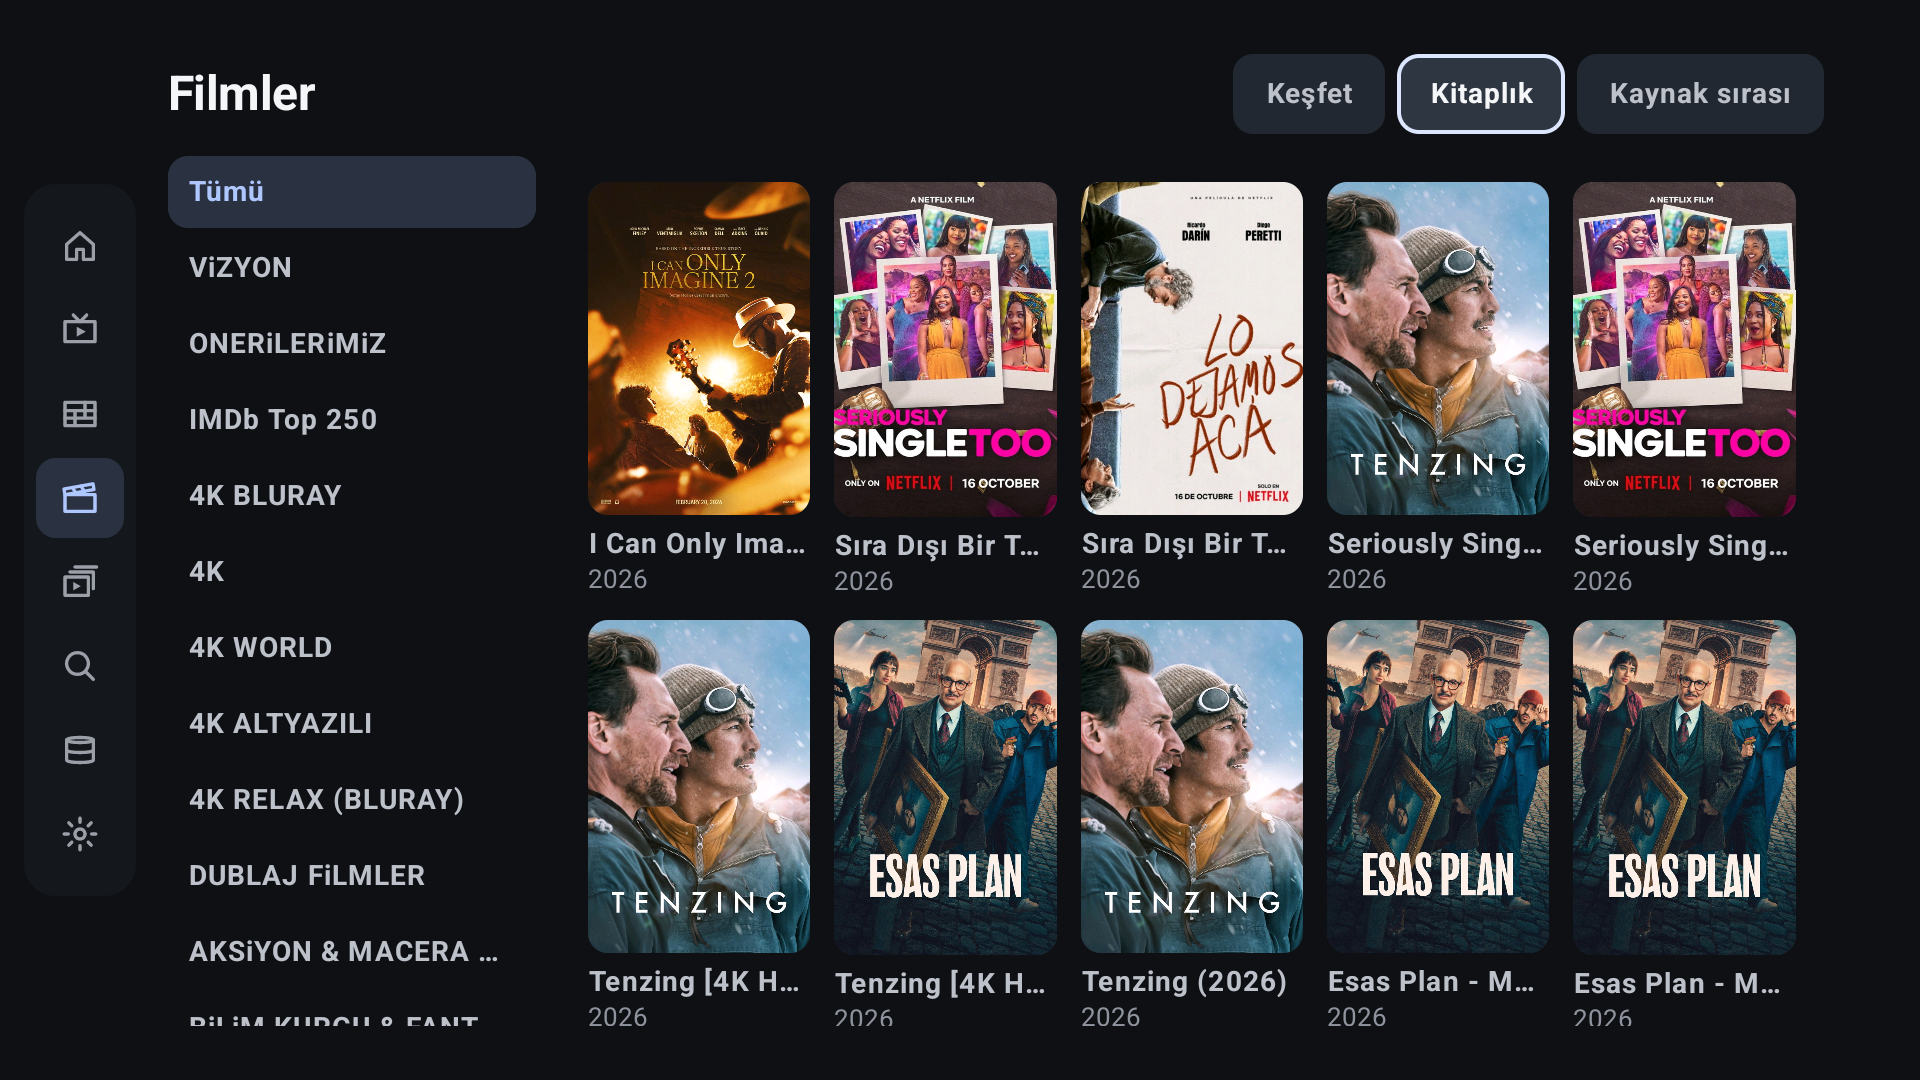
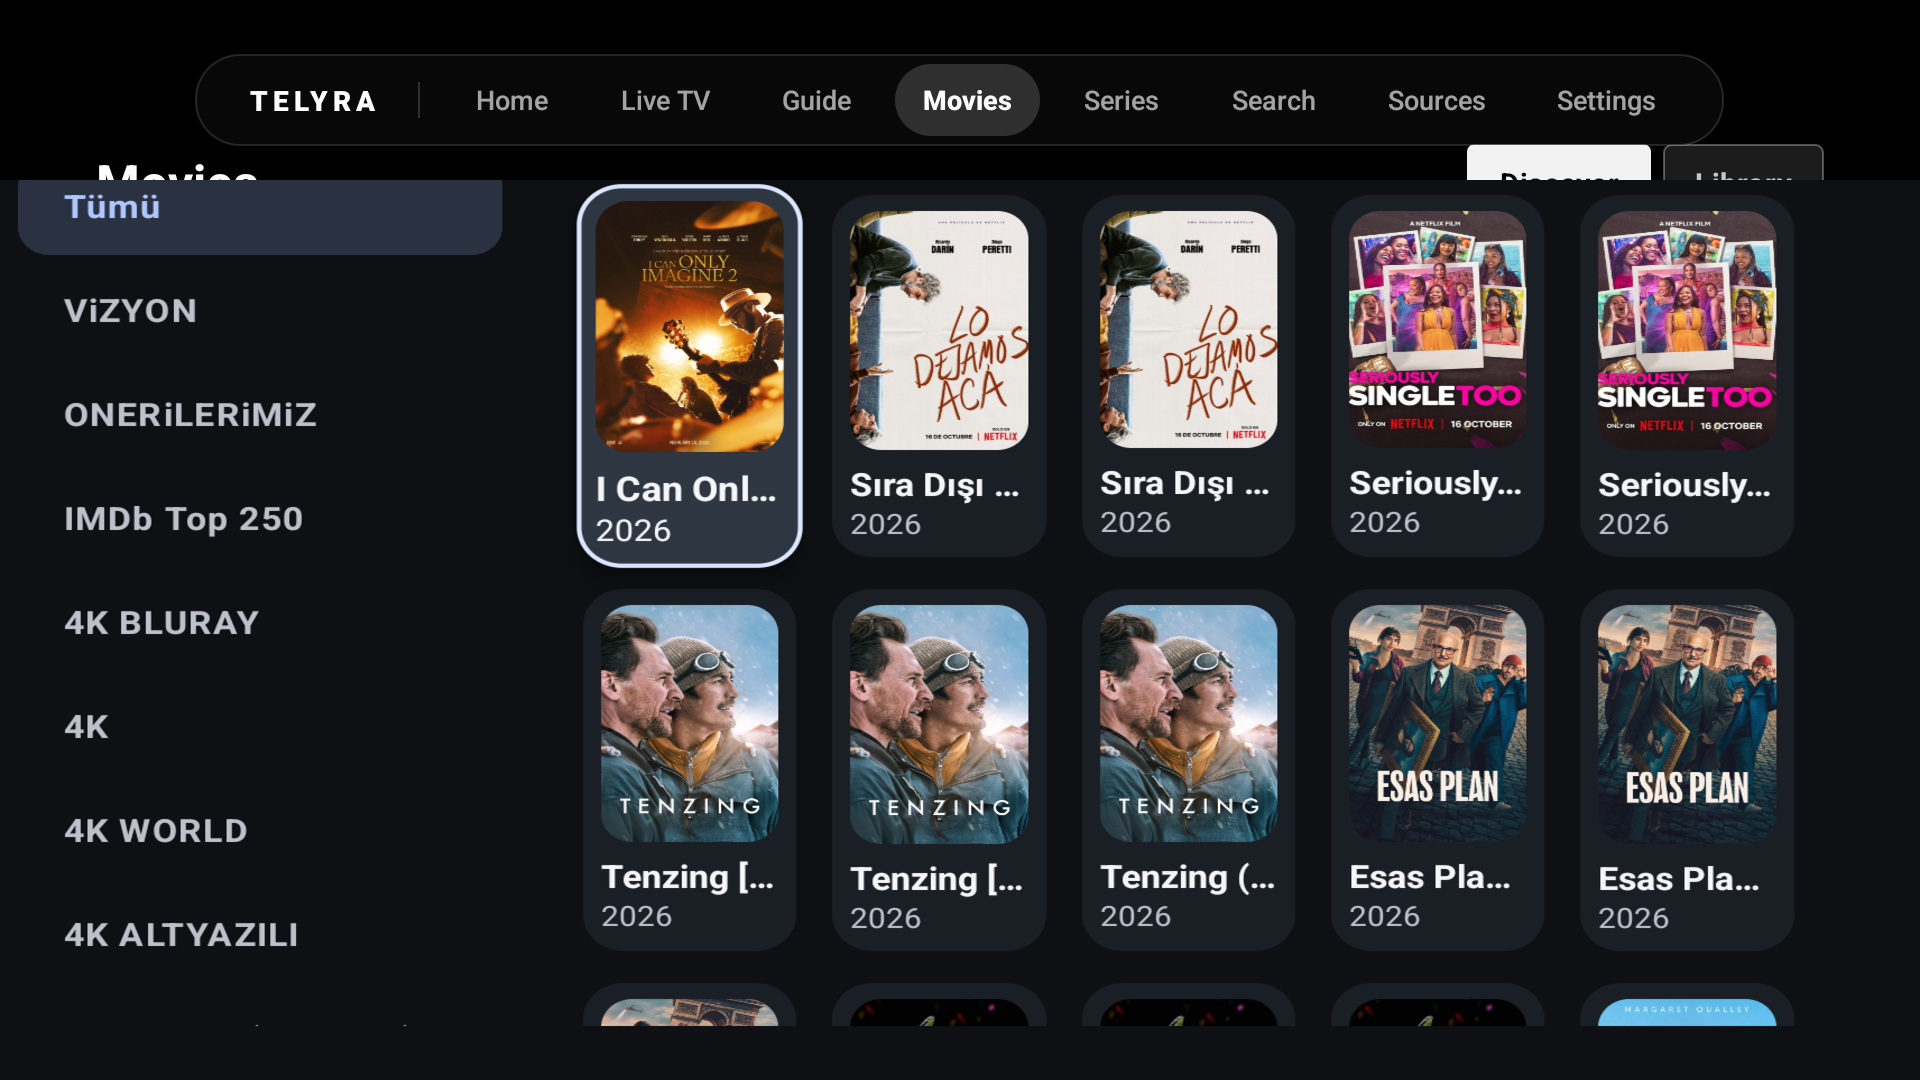
fix(telyra): replace legacy sidebar screenshots with authentic Apple TV TopBar screenshots and add Home tab

diff --git a/src/telyra/components/TvMockupShowcase.tsx b/src/telyra/components/TvMockupShowcase.tsx
@@ -7,16 +7,17 @@ interface MockupProps {
 }
 
 type DeviceMode = 'tv' | 'mobile'
-type TvTab = 'movies' | 'detail' | 'hud' | 'live' | 'guide' | 'sources'
+type TvTab = 'home' | 'live' | 'guide' | 'movies' | 'detail' | 'hud' | 'sources'
 type MobileTab = 'player' | 'stats' | 'live' | 'onboarding'
 type HudMode = 'off' | 'compact' | 'detailed'
 
 const PRELOAD_IMAGES: string[] = [
+  '/telyra/screenshots/tv-home.webp',
+  '/telyra/screenshots/tv-live.webp',
+  '/telyra/screenshots/tv-guide.webp',
   '/telyra/screenshots/tv-movies.webp',
   '/telyra/screenshots/tv-detail.webp',
   '/telyra/screenshots/tv-hud-developer.webp',
-  '/telyra/screenshots/tv-live.webp',
-  '/telyra/screenshots/tv-guide.webp',
   '/telyra/screenshots/tv-sources.webp',
   '/telyra/screenshots/phone-player.webp',
   '/telyra/screenshots/phone-hud-detailed.webp',
@@ -24,12 +25,12 @@ const PRELOAD_IMAGES: string[] = [
   '/telyra/screenshots/phone-home-onboarding.webp',
 ]
 
-const TV_TABS_ORDER: TvTab[] = ['movies', 'detail', 'hud', 'live', 'guide', 'sources']
+const TV_TABS_ORDER: TvTab[] = ['home', 'live', 'guide', 'movies', 'detail', 'hud', 'sources']
 
 export function TvMockupShowcase({ lang }: MockupProps) {
   const content = TELYRA_CONTENT[lang].mockup
   const [device, setDevice] = useState<DeviceMode>('tv')
-  const [activeTvTab, setActiveTvTab] = useState<TvTab>('movies')
+  const [activeTvTab, setActiveTvTab] = useState<TvTab>('home')
   const [activeMobileTab, setActiveMobileTab] = useState<MobileTab>('player')
   const [channelIndex, setChannelIndex] = useState(0)
   const [hudMode, setHudMode] = useState<HudMode>('compact')
@@ -44,11 +45,32 @@ export function TvMockupShowcase({ lang }: MockupProps) {
     TvTab,
     { label: string; src: string; fallbackSrc: string; badge: string; icon: string }
   > = {
+    home: {
+      label: content.tvTabs.home,
+      src: '/telyra/screenshots/tv-home.webp',
+      fallbackSrc: '/telyra/screenshots/tv-home.png',
+      badge: 'NowSeen 10-Foot',
+      icon: '🏠',
+    },
+    live: {
+      label: content.tvTabs.live,
+      src: '/telyra/screenshots/tv-live.webp',
+      fallbackSrc: '/telyra/screenshots/tv-live.png',
+      badge: '1080i50 0ms',
+      icon: '📺',
+    },
+    guide: {
+      label: content.tvTabs.guide,
+      src: '/telyra/screenshots/tv-guide.webp',
+      fallbackSrc: '/telyra/screenshots/tv-guide.png',
+      badge: 'XMLTV EPG',
+      icon: '📅',
+    },
     movies: {
       label: content.tvTabs.movies,
       src: '/telyra/screenshots/tv-movies.webp',
       fallbackSrc: '/telyra/screenshots/tv-movies.png',
-      badge: 'TMDB 4K UHD',
+      badge: '4K Ultra HD',
       icon: '🎬',
     },
     detail: {
@@ -64,20 +86,6 @@ export function TvMockupShowcase({ lang }: MockupProps) {
       fallbackSrc: '/telyra/screenshots/tv-hud-developer.png',
       badge: '25.04 Mbps OSD',
       icon: '⚡',
-    },
-    live: {
-      label: content.tvTabs.live,
-      src: '/telyra/screenshots/tv-live.webp',
-      fallbackSrc: '/telyra/screenshots/tv-live.png',
-      badge: '15.869 Kanal',
-      icon: '📺',
-    },
-    guide: {
-      label: content.tvTabs.guide,
-      src: '/telyra/screenshots/tv-guide.webp',
-      fallbackSrc: '/telyra/screenshots/tv-guide.png',
-      badge: 'EPG Rehberi',
-      icon: '📅',
     },
     sources: {
       label: content.tvTabs.sources,

diff --git a/src/telyra/data/telyraData.ts b/src/telyra/data/telyraData.ts
@@ -94,11 +94,12 @@ export interface TelyraContent {
     hudViewLabel: string
     remoteHint: string
     tvTabs: {
+      home: string
+      live: string
+      guide: string
       movies: string
       detail: string
       hud: string
-      live: string
-      guide: string
       sources: string
     }
     mobileTabs: {
@@ -231,11 +232,12 @@ export const TELYRA_CONTENT: Record<Language, TelyraContent> = {
       hudViewLabel: 'HUD GÖRÜNÜMÜ:',
       remoteHint: '💡 İpucu: Klavye Yön Tuşları (Sol / Sağ: Kanal Değiştir, Yukarı: HUD Modu, Aşağı: Sekme) ile de kontrol edebilirsiniz.',
       tvTabs: {
+        home: 'Ana Ekran (Home)',
+        live: 'Canlı TV & Kanallar',
+        guide: 'EPG TV Rehberi',
         movies: 'Sinema Kataloğu',
         detail: 'Film Detayı & 4K',
         hud: 'Ultra-HUD Telemetri',
-        live: 'Canlı TV & Kanallar',
-        guide: 'EPG TV Rehberi',
         sources: 'Kaynak Yönetimi',
       },
       mobileTabs: {
@@ -611,11 +613,12 @@ export const TELYRA_CONTENT: Record<Language, TelyraContent> = {
       hudViewLabel: 'HUD TELEMETRY:',
       remoteHint: '💡 Tip: Use Keyboard Arrow Keys (Left / Right: Zap Channel, Up: HUD Modes, Down: Tabs) for interactive testing.',
       tvTabs: {
+        home: 'Home Dashboard',
+        live: 'Live TV & Channels',
+        guide: 'EPG TV Guide',
         movies: 'Cinema & Movies',
         detail: 'Movie Details & 4K',
         hud: 'Live Telemetry HUD',
-        live: 'Live TV & Channels',
-        guide: 'EPG TV Guide',
         sources: 'Source Manager',
       },
       mobileTabs: {
